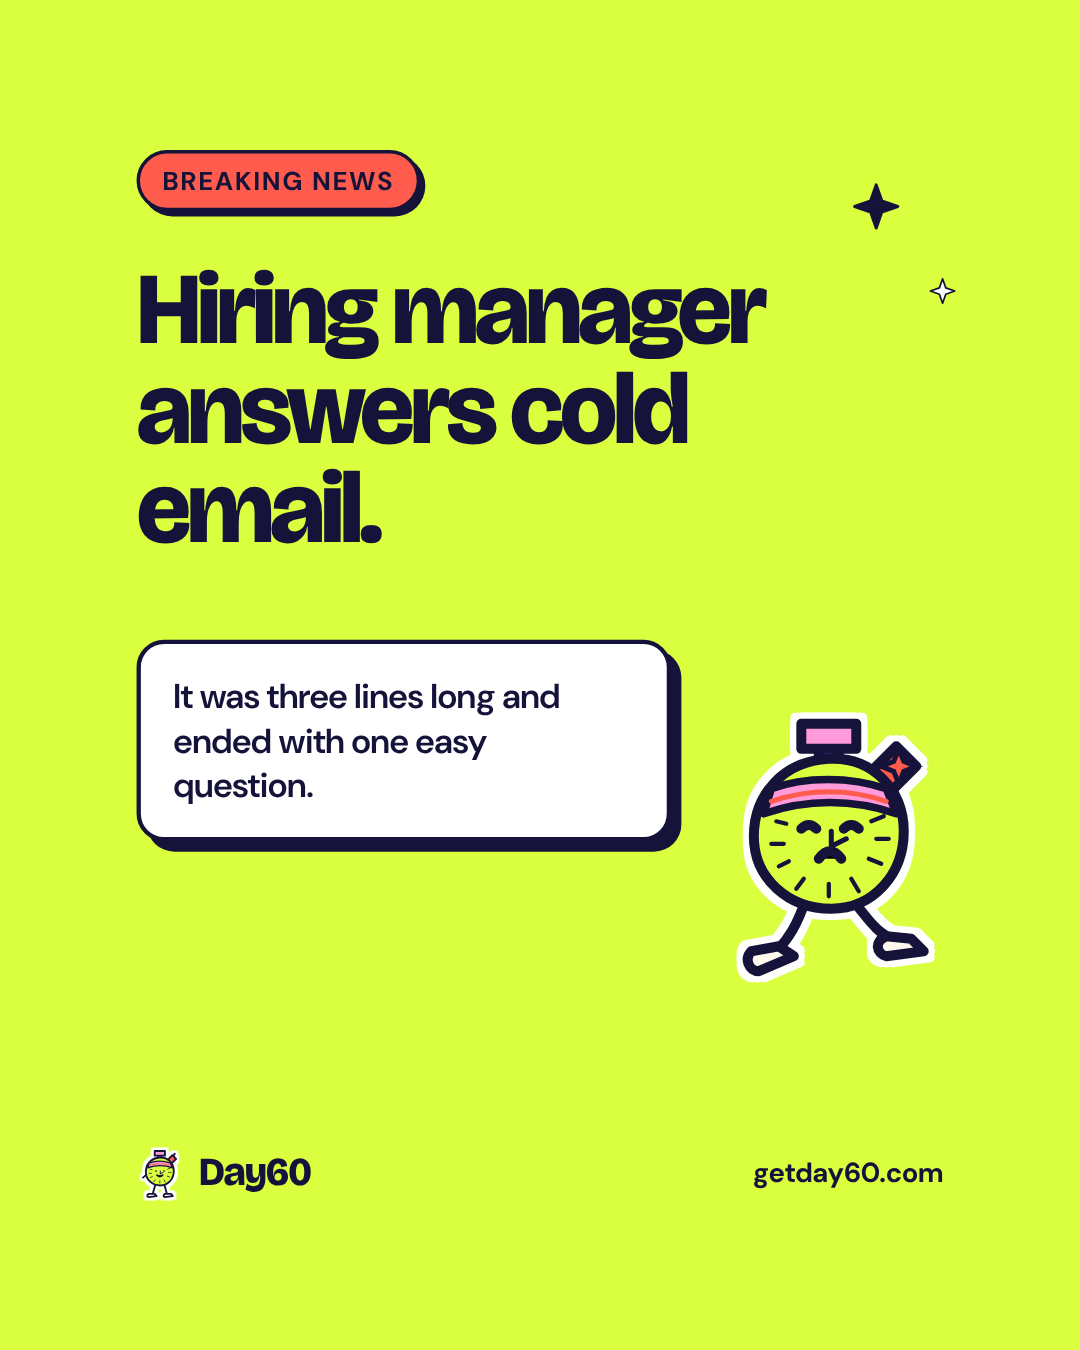
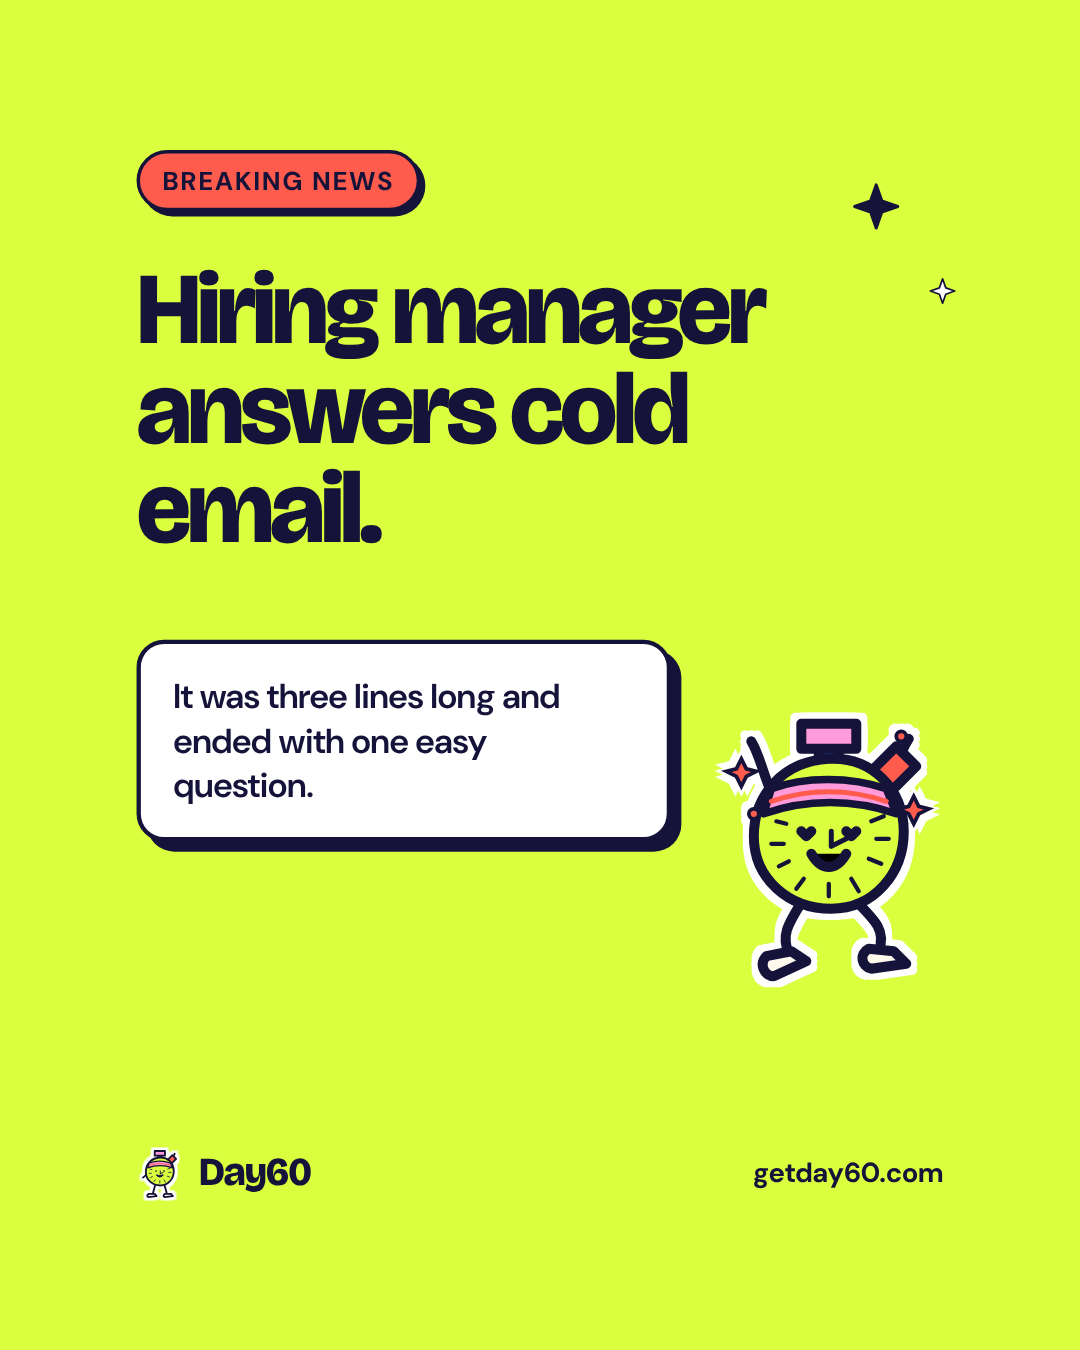
HQ approved the 8 drafts (Nov 23); IG-breaking card: Tick celebrates; IG6-r2 moves to Tue Dec 1, 7:26 PM
Claude-Session: https://claude.ai/code/session_014zSVjC4bTvFzirCdi7ikgp

Changed region(s): [[0.6722, 0.5911, 0.8861, 0.7467], [0.6417, 0.5289, 0.7333, 0.6222], [0.825, 0.5289, 0.8861, 0.6222]]

diff --git a/scripts/library/gen.py b/scripts/library/gen.py
@@ -529,26 +529,26 @@ def _one(week, pid, path, label="Alt text:"):
 
 
 SPECS += [
-    entry(W48, "FB-onejob", channel="facebook", date="2026-11-25", time="09:36", status="draft",
+    entry(W48, "FB-onejob", channel="facebook", date="2026-11-25", time="09:36", status="approved",
           title="Start with one job", format="video",
           files=[{"path": "2026-11/wk47/p03_one_job_reel_fb_cover.mp4", "alt": ""}]
                 + _one(W48, "FB-onejob", "2027-01/wk03/p03_one_job_cover_coral_grid.png", "Alt text (cover):")),
-    entry(W48, "IG-thanksgiving", channel="instagram", date="2026-11-26", time="08:11", status="draft",
+    entry(W48, "IG-thanksgiving", channel="instagram", date="2026-11-26", time="08:11", status="approved",
           title="Pass the stuffing", format="image",
           files=_one(W48, "IG-thanksgiving", "2026-11/wk48/p06_pass_the_stuffing_pink.png")),
-    entry(W48, "FB-blackfriday", channel="facebook", date="2026-11-27", time="07:57", status="draft",
+    entry(W48, "FB-blackfriday", channel="facebook", date="2026-11-27", time="07:57", status="approved",
           title="Black Friday deal", format="text"),
-    entry(W49, "FB-shortlist", channel="facebook", date="2026-11-29", time="09:34", status="draft",
+    entry(W49, "FB-shortlist", channel="facebook", date="2026-11-29", time="09:34", status="approved",
           title="Long weekend, short list", format="image",
           files=_one(W49, "FB-shortlist", "2026-11/wk48/p05_short_list_coral_safe.png")),
-    entry(W49, "LI-monday", channel="linkedin", date="2026-11-29", time="21:06", status="draft",
+    entry(W49, "LI-monday", channel="linkedin", date="2026-11-29", time="21:06", status="approved",
           title="Monday plan: one note by 10", format="text"),
-    entry(W49, "LI-glossary", channel="linkedin", date="2026-11-30", time="17:26", status="draft",
+    entry(W49, "LI-glossary", channel="linkedin", date="2026-11-30", time="17:26", status="approved",
           title="Job posting glossary", format="text"),
-    entry(W49, "IG-breaking", channel="instagram", date="2026-11-30", time="20:27", status="draft",
+    entry(W49, "IG-breaking", channel="instagram", date="2026-11-30", time="20:27", status="approved",
           title="Hiring manager answers cold email", format="image",
           files=_one(W49, "IG-breaking", "2026-11/wk49/p02_breaking_lime.png")),
-    entry(W49, "FB-breaking", channel="facebook", date="2026-12-01", time="07:34", status="draft",
+    entry(W49, "FB-breaking", channel="facebook", date="2026-12-01", time="07:34", status="approved",
           title="Hiring manager answers cold email", format="image",
           files=_one(W49, "FB-breaking", "2026-11/wk49/p02_breaking_lime.png")),
 ]

diff --git a/scripts/library/notes.py b/scripts/library/notes.py
@@ -318,14 +318,14 @@ NOTES["2026-w48-LI-thanks"] = NOTES["2026-w48-LI-thanks"] + ["In Buffer: schedul
 NOTES["2026-w48-FB-onelink"] = NOTES["2026-w48-FB-onelink"] + ["In Buffer: scheduled Nov 23 by Social (Buffer post 6b0430c3433e6368c8a53c50), Sat Nov 28, 10:54 PM CT, thumbnailOffset 500. Nothing for Philip to do."]
 
 # Nov 23: created or changed in Buffer by the new Social session (HQ brief, Nov 23)
-NOTES["2026-w46-IG6-r2"] = NOTES["2026-w46-IG6-r2"] + ["In Buffer: scheduled Nov 23 by Social (Buffer post 6b04350b7e433fe9cacb0420), Thu Nov 26, 9:11 AM CT. If HQ approves the Thanksgiving card for Thursday, Social moves this post to the next open Instagram day. Nothing for Philip to do."]
+NOTES["2026-w46-IG6-r2"] = NOTES["2026-w46-IG6-r2"] + ["Moved again (HQ, Nov 23): the Thanksgiving card took Thu Nov 26, so this goes out Tue Dec 1, 7:26 PM.", "In Buffer: scheduled Nov 23 by Social (Buffer post 6b04350b7e433fe9cacb0420), Tue Dec 1, 7:26 PM CT. Nothing for Philip to do."]
 NOTES["2026-w49-IG-email"] = NOTES["2026-w49-IG-email"] + ["In Buffer: scheduled Nov 23 by Social (Buffer post 6b043514433e6368c8a73713), Fri Nov 27, 9:43 PM CT. Nothing for Philip to do."]
 NOTES["2026-w46-IG7-r2"] = NOTES["2026-w46-IG7-r2"] + ["In Buffer: scheduled Nov 23 by Social (Buffer post 6b04351c0d00264c1a39c154), Sun Nov 29, 8:17 PM CT. Nothing for Philip to do."]
 NOTES["2026-w48-FB-onelink"] = NOTES["2026-w48-FB-onelink"] + ["Video swapped Nov 23 to the Facebook cut (end sticker getday60.com, HQ approved): p04_one_link_reel_fb_cover.mp4, thumbnailOffset 500."]
 
 # Nov 23: drafts for HQ (Social). Humor posts say so first (playbook §4).
 HUMOR = "humor"
-_WAIT = "Draft: waits for HQ's approval. Nothing goes into Buffer before it."
+_WAIT = "Approved by HQ (Nov 23)."
 NOTES["2026-w48-FB-onejob"] = ["Publishes through Buffer, automatically, as the Day60 Facebook Page, as a Reel (1080x1920).",
     "The video's first second is the cover (cover-first video); Buffer's thumbnailOffset 500 picks it.",
     "Facebook cut: the end sticker reads getday60.com, not \"Link in bio\".",
@@ -340,3 +340,4 @@ NOTES["2026-w49-LI-glossary"] = [HUMOR] + BUF_LI2 + ["Founder lane (Mon).", _WAI
 NOTES["2026-w49-IG-breaking"] = [HUMOR] + BUF_IG_ONE + ["FB-breaking reuses this card on Tue Dec 1.", _WAIT]
 NOTES["2026-w49-FB-breaking"] = [HUMOR] + BUF_FB_ONE + ["IG-breaking's card (Instagram Mon Nov 30), with a Facebook caption.", _WAIT]
 
+NOTES["2026-w46-IG6-r2"] = [x for x in NOTES["2026-w46-IG6-r2"] if "unless HQ approves the Thanksgiving" not in x]

diff --git a/scripts/library/recycle_def.py b/scripts/library/recycle_def.py
@@ -214,7 +214,7 @@ for _r in R:
     if _r["orig"] in THIS_WEEK:
         _r.update(week="2026-w48", dir="2026-11/wk48", **THIS_WEEK[_r["orig"]])
 # Moved up to fill week 48 and Sun Nov 29 (Social, Nov 22; HQ can say no)
-MOVED = {"2026-w46-IG6": dict(date="2026-11-26", time="09:11", day="Thu Nov 26", t="9:11 AM", was="Mon Dec 28"),
+MOVED = {"2026-w46-IG6": dict(date="2026-12-01", time="19:26", day="Tue Dec 1", t="7:26 PM", was="Mon Dec 28"),
           "2026-w46-IG7": dict(date="2026-11-29", time="20:17", day="Sun Nov 29", t="8:17 PM", was="Mon Jan 4")}
 for _r in R:
     if _r["orig"] in MOVED:

diff --git a/2026-11/wk49/build_humor.py b/2026-11/wk49/build_humor.py
@@ -59,7 +59,7 @@ out(WK, "p02_breaking_lime", cover_page(
       f'Hiring manager answers cold email.</div>'
     + f'<div class="card" style="position:absolute;left:72px;top:640px;width:620px;padding:34px 38px;'
       f'font-size:40px;font-weight:600;line-height:1.3">It was three lines long and ended with one easy question.</div>'
-    + at(60, 700, tick("thinking", 290), right=True)
+    + at(60, 700, tick("celebrating", 290), right=True)
     + spark(900, 110, 60, INK) + spark(990, 220, 34, WHITE)
     + foot_g(g), g))
 

diff --git a/2026-11/wk49/posts.md b/2026-11/wk49/posts.md
@@ -251,8 +251,8 @@ Today, pick one job and find its hiring manager's name. The full guide, step by 
 
 Five drafts for HQ's approval before Wednesday Nov 25's run, three of them humor (playbook §4). Times from `scripts/pick_time.py`.
 
-### LI-monday · Sun Nov 29 · 9:06 PM · DRAFT · MONDAY PLAN: ONE JOB, ONE PERSON, ONE NOTE (Sunday lane)
-- Status: draft, for HQ's approval.
+### LI-monday · Sun Nov 29 · 9:06 PM · APPROVED (HQ, Nov 23) · MONDAY PLAN: ONE JOB, ONE PERSON, ONE NOTE (Sunday lane)
+- Status: approved (HQ, Nov 23).
 - Lane: the Sunday lane, "plan your week" (Philip, Nov 22; playbook §4). The first Sunday LinkedIn post.
 - Format: text only.
 - Founder facts: none beyond "I built Day60".
@@ -283,8 +283,8 @@ https://getday60.com/try?utm_source=linkedin&utm_medium=social&utm_campaign=2026
 
 Checks: hook is 52 characters. "Day60" appears once. The link is the body's last line. Ends on one next step for Monday morning, then a question. No em-dashes, no banned phrases.
 
-### FB-shortlist · Sun Nov 29 · 9:34 AM · DRAFT · LONG WEEKEND, SHORT LIST (Facebook)
-- Status: draft, for HQ's approval. The send-this-to-someone format (playbook §4).
+### FB-shortlist · Sun Nov 29 · 9:34 AM · APPROVED (HQ, Nov 23) · LONG WEEKEND, SHORT LIST (Facebook)
+- Status: approved (HQ, Nov 23). The send-this-to-someone format (playbook §4).
 - Image: IG-shortlist-r2's approved art, `2026-11/wk48/p05_short_list_coral_safe.png` (1080x1350). It has no "Link in bio". Instagram posts it Sat Nov 28, 9:24 PM, so they never share a day.
 - Alt text: Long weekend, short list: pick one job, paste its link to see your 4 people, send the hiring manager one short note.
 - Link: `https://getday60.com/try?utm_source=facebook&utm_medium=social&utm_campaign=2026-w49-FB-shortlist`
@@ -308,8 +308,8 @@ https://getday60.com/try?utm_source=facebook&utm_medium=social&utm_campaign=2026
 #jobsearch #day60 #careeradvice
 ```
 
-### LI-glossary · Mon Nov 30 · 5:26 PM · DRAFT · A SHORT GLOSSARY OF JOB POSTING LANGUAGE (humor, founder lane)
-- Status: draft, for HQ's approval. Humor (playbook §4): a deadpan text post. The joke is on job-posting language and long hiring processes, never the person looking.
+### LI-glossary · Mon Nov 30 · 5:26 PM · APPROVED (HQ, Nov 23) · A SHORT GLOSSARY OF JOB POSTING LANGUAGE (humor, founder lane)
+- Status: approved (HQ, Nov 23). Humor (playbook §4): a deadpan text post. The joke is on job-posting language and long hiring processes, never the person looking.
 - Lane: Phil's founder lane (Mon). His view, given as advice; no events and no founder facts beyond "I built Day60".
 - Format: text only.
 - Tags: none. Day60 stays untagged until Buffer has the page's LinkedIn details.
@@ -341,9 +341,10 @@ https://getday60.com/try?utm_source=linkedin&utm_medium=social&utm_campaign=2026
 
 Checks: hook is 41 characters. "Day60" appears once. The link is the body's last line. Ends on one next step, then a question. No em-dashes, no banned phrases.
 
-### IG-breaking · Mon Nov 30 · 8:27 PM · DRAFT · BREAKING: HIRING MANAGER ANSWERS COLD EMAIL (humor)
-- Status: draft, for HQ's approval. Humor (playbook §4): the "breaking news" card with Tick. The joke is on long first messages; the point is the three-line note.
+### IG-breaking · Mon Nov 30 · 8:27 PM · APPROVED (HQ, Nov 23) · BREAKING: HIRING MANAGER ANSWERS COLD EMAIL (humor)
+- Status: approved (HQ, Nov 23). Humor (playbook §4): the "breaking news" card with Tick. The joke is on long first messages; the point is the three-line note.
 - Image: `2026-11/wk49/p02_breaking_lime.png` (1080x1350, lime; source `2026-11/wk49/build_humor.py`). Safe area passes. No "Link in bio" on the image, so FB-breaking reuses it.
+- Art fix (HQ, Nov 23): Tick celebrates instead of frowning (a frown read as bad news). Same place and size; FB-breaking uses the fixed file.
 - Ground: lime. The grid before it: ink (Fri), coral (Sat), cobalt (Sun), so any 4 in a row stay different.
 - If HQ approves the Thanksgiving card, IG6-r2 moves to the next open Instagram day: Tue Dec 1 if this post takes Monday.
 - Alt text: Breaking news: hiring manager answers cold email. It was three lines long and ended with one easy question.
@@ -365,8 +366,8 @@ Day60 drafts a short first note to each of the 4 people closest to the hire. You
 #day60 #jobsearch #careeradvice #networkingtips #coverletter
 ```
 
-### FB-breaking · Tue Dec 1 · 7:34 AM · DRAFT · BREAKING: HIRING MANAGER ANSWERS COLD EMAIL (humor, Facebook)
-- Status: draft, for HQ's approval. Humor (playbook §4). IG-breaking's card, the day after Instagram posts it.
+### FB-breaking · Tue Dec 1 · 7:34 AM · APPROVED (HQ, Nov 23) · BREAKING: HIRING MANAGER ANSWERS COLD EMAIL (humor, Facebook)
+- Status: approved (HQ, Nov 23). Humor (playbook §4). IG-breaking's card, the day after Instagram posts it.
 - Image: `2026-11/wk49/p02_breaking_lime.png` (1080x1350).
 - Alt text: Breaking news: hiring manager answers cold email. It was three lines long and ended with one easy question.
 - Link: `https://getday60.com/try?utm_source=facebook&utm_medium=social&utm_campaign=2026-w49-FB-breaking`

diff --git a/2026-11/wk48/posts.md b/2026-11/wk48/posts.md
@@ -355,8 +355,8 @@ https://getday60.com/try?utm_source=facebook&utm_medium=social&utm_campaign=2026
 
 Three drafts for HQ's approval before Wednesday Nov 25's run. Times from `scripts/pick_time.py`. Nothing goes into Buffer until HQ says yes.
 
-### FB-onejob · Wed Nov 25 · 9:36 AM · DRAFT · START WITH ONE JOB (Facebook Reel)
-- Status: draft, for HQ's approval. A Reel (HQ approves each Reel, playbook §5).
+### FB-onejob · Wed Nov 25 · 9:36 AM · APPROVED (HQ, Nov 23) · START WITH ONE JOB (Facebook Reel)
+- Status: approved (HQ, Nov 23). A Reel (HQ approves each Reel, playbook §5).
 - Words: IG-onejob-r2's approved caption (`2027-01/wk03/posts.md`), adapted for Facebook: "Link in bio" out, the try link on its own last line before the hashtags (HQ, Nov 22).
 - Reel: `2026-11/wk47/p03_one_job_reel_fb_cover.mp4` (1080x1920: the cover held for 1 second, then the One Job Reel with its end sticker reading "getday60.com" in place of "Link in bio"; source `2026-11/wk47/build_first.py onejob_fb`, then `2026-11/wk48/build_cover_first.py`) · Cover: `2027-01/wk03/p03_one_job_cover_coral_grid.png` (1080x1920). In Buffer: a Facebook Reel through jsDelivr at a fixed commit, thumbnailOffset 500.
 - Alt text (cover): Don't start with 50 jobs. Start with one: paste its link into Day60 and meet the 4 people closest to the hire.
@@ -378,8 +378,8 @@ https://getday60.com/try?utm_source=facebook&utm_medium=social&utm_campaign=2026
 #jobsearch #day60 #jobhunting
 ```
 
-### IG-thanksgiving · Thu Nov 26 · 8:11 AM · DRAFT · PASS THE STUFFING (humor, Thanksgiving card)
-- Status: draft, for HQ's approval. Humor (playbook §4): a one-line seasonal card. The joke is on long first messages, and the point is the method's easy last question.
+### IG-thanksgiving · Thu Nov 26 · 8:11 AM · APPROVED (HQ, Nov 23) · PASS THE STUFFING (humor, Thanksgiving card)
+- Status: approved (HQ, Nov 23). Humor (playbook §4): a one-line seasonal card. The joke is on long first messages, and the point is the method's easy last question.
 - If HQ approves it, it takes Thursday and IG6-r2 (in Buffer, Thu 9:11 AM) moves with edit_post to the next open Instagram day.
 - Image: `2026-11/wk48/p06_pass_the_stuffing_pink.png` (1080x1350, pink; source `2026-11/wk49/build_humor.py`). Safe area passes. The lime highlight is the one lime element.
 - Ground: pink. The grid around it: mint (Wed), ink (Fri), coral (Sat), cobalt (Sun), so any 4 in a row stay different.
@@ -401,8 +401,8 @@ Today: read the last line of the next message you'll send. Could they answer it 
 #day60 #jobsearch #careeradvice #networkingtips #coverletter
 ```
 
-### FB-blackfriday · Fri Nov 27 · 7:57 AM · DRAFT · BLACK FRIDAY DEAL (humor, text post)
-- Status: draft, for HQ's approval. Humor (playbook §4): a deadpan text post. The joke is on the application pile, never the person applying.
+### FB-blackfriday · Fri Nov 27 · 7:57 AM · APPROVED (HQ, Nov 23) · BLACK FRIDAY DEAL (humor, text post)
+- Status: approved (HQ, Nov 23). Humor (playbook §4): a deadpan text post. The joke is on the application pile, never the person applying.
 - Format: text only, so no new Facebook art (playbook §5: Facebook reuses Instagram art).
 - Day: Friday. Instagram that day is IG-email, a different piece.
 - Link: `https://getday60.com/try?utm_source=facebook&utm_medium=social&utm_campaign=2026-w48-FB-blackfriday`

diff --git a/2026-12/wk53/posts.md b/2026-12/wk53/posts.md
@@ -10,7 +10,8 @@
 
 ## Instagram
 
-### IG6-r2 · Thu Nov 26 · 9:11 AM · APPROVED (recycled, HQ Nov 22) · WOULD TICK LET YOU SEND IT
+### IG6-r2 · Tue Dec 1 · 7:26 PM · APPROVED (recycled, HQ Nov 22) · WOULD TICK LET YOU SEND IT
+- **Moved again (HQ, Nov 23):** HQ approved the Thanksgiving card for Thu Nov 26, so this post goes out Tue Dec 1, 7:26 PM (pick_time.py).
 - **Moved up (Nov 22):** from Mon Dec 28 to Thu Nov 26, 9:11 AM, unless HQ approves the Thanksgiving humor card for that slot by Wednesday Nov 25's run; then it keeps a later date (HQ, Nov 22). It goes to fill week 48's Instagram days (Instagram is 7 a week from Nov 23; Philip, Nov 22). It stays filed here, library id `2026-w46-IG6-r2`. Cream: the only cream in week 48's seven.
 - **Recycled (HQ, Nov 22):** a new copy of `2026-w46-IG6` (Would Tick let you send it, 2026-11/wk46), which was cropped to a square when it was scheduled in the Instagram app. Library id: `2026-w46-IG6-r2`. The caption is lightly refreshed so it isn't a word-for-word repeat.
 - Status: approved. The recycled copy keeps the original's approval: the words and images were approved before (HQ, Nov 22).
@@ -19,7 +20,7 @@
 - Alt text (per slide): 1 "One cold email through Day60's free message checker, before and after." · 2 "Step 1: Pick what you're sending: a cold email, a LinkedIn connection note or a message after they accept." · 3 Step 2: Paste your draft. The example is a long first email that opens "I hope this email finds you well!" · 4 The verdict: 7 to fix, 6 passed. Each fix says why, like a short subject line and not starting with "I". · 5 "Step 3: Fix it. Check again. The example rewrite is shorter and ends with one clear question." · 6 "All 13 rules pass. Same ask, easier to answer." · 7 "Check it before you send it. Free at getday60.com/message-checker"
 - Ground: cream. The week's other Instagram slots are still to plan; with them, any 4 in a row stay different and cream stays at most one in five.
 - Link: the bio link stays /try. No link in the caption.
-- In Buffer: scheduled Nov 23 by Social (Buffer post `6b04350b7e433fe9cacb0420`), Thu Nov 26, 9:11 AM CT, at 1080x1350 with its alt text. If HQ approves the Thanksgiving card for Thursday, Social moves this post to the next open Instagram day with edit_post. Nothing for Philip to do.
+- In Buffer: scheduled Nov 23 by Social (Buffer post `6b04350b7e433fe9cacb0420`), at 1080x1350 with its alt text; moved the same day with edit_post from Thu Nov 26, 9:11 AM to Tue Dec 1, 7:26 PM CT. Nothing for Philip to do.
 
 ```
 Would Tick let you send it?
